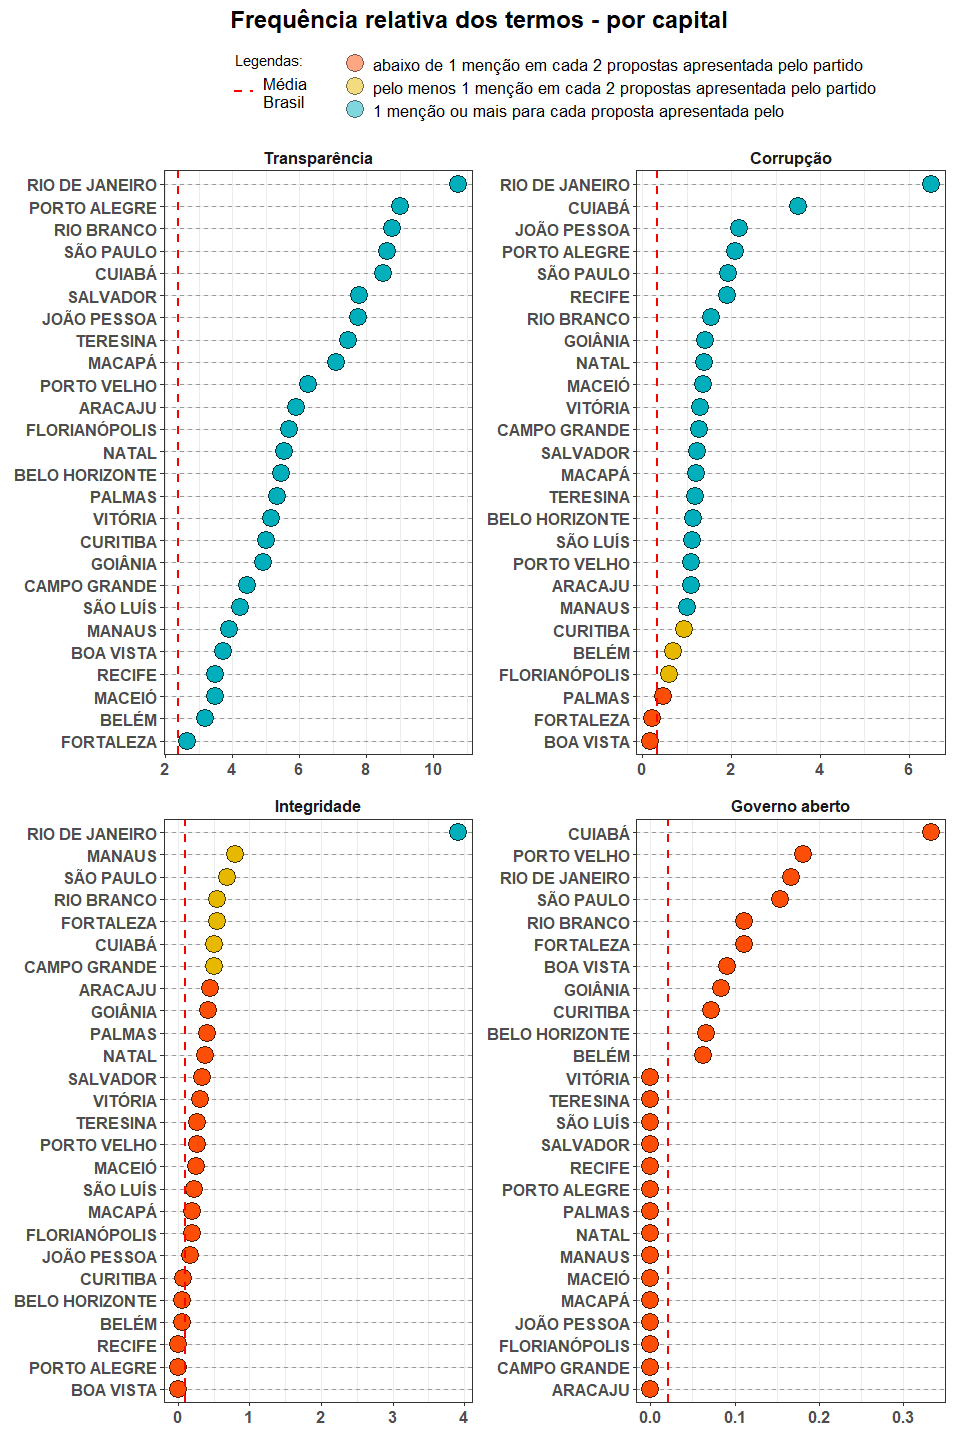
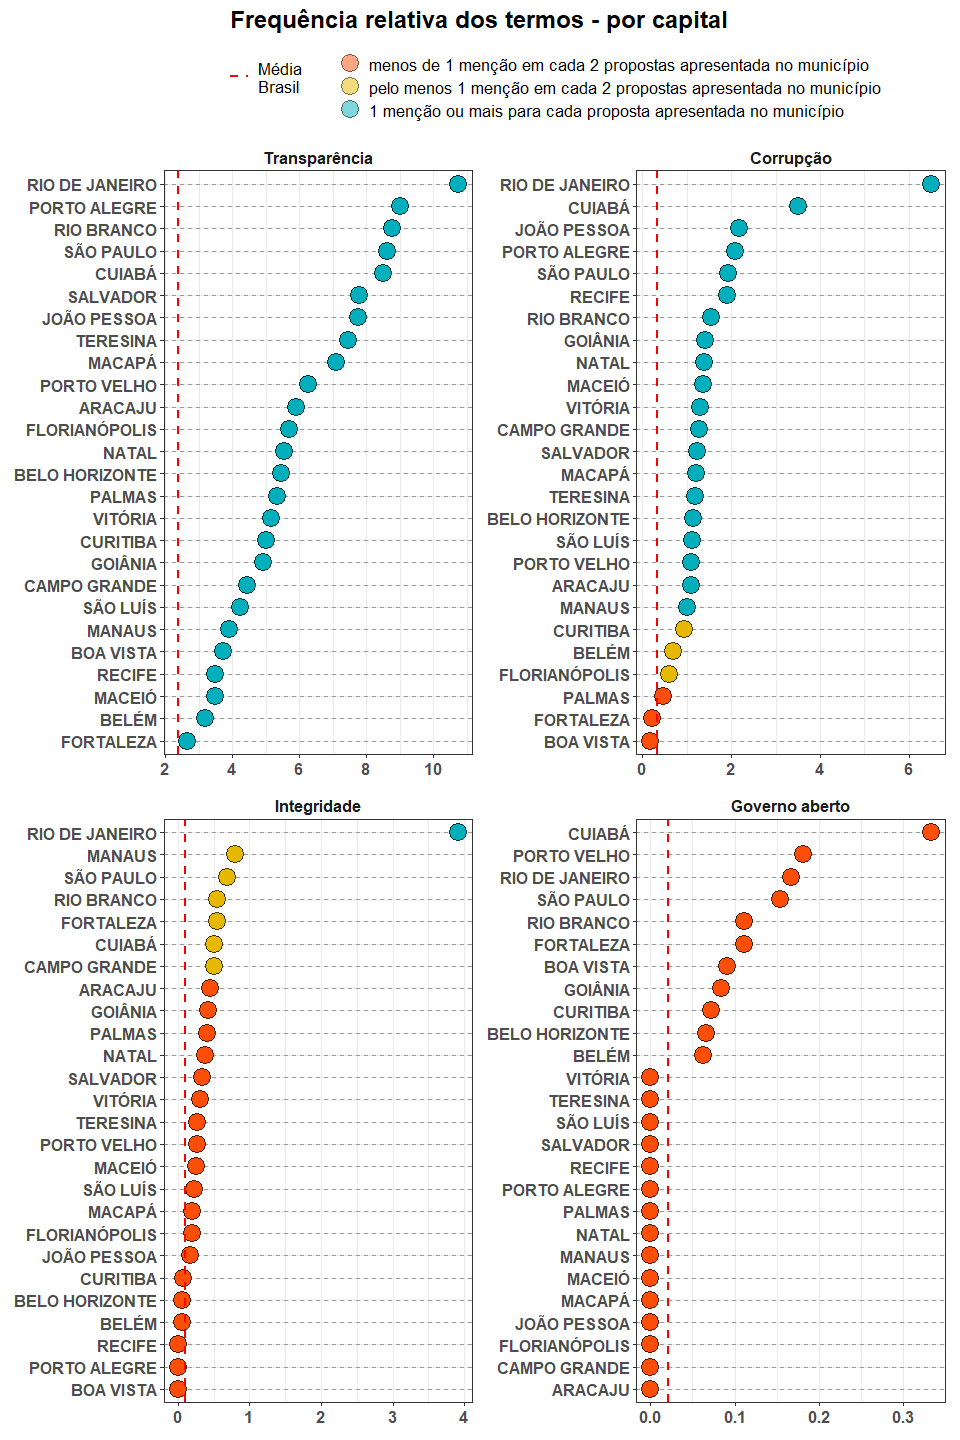
update visualizacoes

Changed region(s): [[0.3438, 0.0312, 0.9062, 0.0938], [0.25, 0.0312, 0.3125, 0.0938]]

diff --git a/report/visualizacoes.md b/report/visualizacoes.md
@@ -113,15 +113,15 @@ pivot_termos <- propostas2 %>%
   ungroup()  %>%
   mutate(
     grau = case_when(
-      freq_termo < 0.5 ~ "abaixo de 1 menção em cada 2 propostas apresentada pelo partido",
+      freq_termo < 0.5 ~ "menos de 1 menção em cada 2 propostas apresentada pelo partido",
       freq_termo < 1.0 ~ "pelo menos 1 menção em cada 2 propostas apresentada pelo partido",
-      freq_termo >= 1.0 ~ "1 menção ou mais para cada proposta apresentada pelo"
+      freq_termo >= 1.0 ~ "1 menção ou mais para cada proposta apresentada pelo partido"
     ) %>%
       factor(
         levels = c(
-          "abaixo de 1 menção em cada 2 propostas apresentada pelo partido",
+          "menos de 1 menção em cada 2 propostas apresentada pelo partido",
           "pelo menos 1 menção em cada 2 propostas apresentada pelo partido",
-          "1 menção ou mais para cada proposta apresentada pelo"
+          "1 menção ou mais para cada proposta apresentada pelo partido"
         )
       )
   )
@@ -363,15 +363,15 @@ pivot_termos <- propostas2 %>%
   ungroup() %>% 
   mutate(
     grau = case_when(
-      freq_termo < 0.5 ~ "abaixo de 1 menção em cada 2 propostas apresentada pelo partido",
-      freq_termo < 1.0 ~ "pelo menos 1 menção em cada 2 propostas apresentada pelo partido",
-      freq_termo >= 1.0 ~ "1 menção ou mais para cada proposta apresentada pelo"
+      freq_termo < 0.5 ~ "menos de 1 menção em cada 2 propostas apresentada no município",
+      freq_termo < 1.0 ~ "pelo menos 1 menção em cada 2 propostas apresentada no município",
+      freq_termo >= 1.0 ~ "1 menção ou mais para cada proposta apresentada no município"
     ) %>%
       factor(
         levels = c(
-          "abaixo de 1 menção em cada 2 propostas apresentada pelo partido",
-          "pelo menos 1 menção em cada 2 propostas apresentada pelo partido",
-          "1 menção ou mais para cada proposta apresentada pelo"
+          "menos de 1 menção em cada 2 propostas apresentada no município",
+          "pelo menos 1 menção em cada 2 propostas apresentada no município",
+          "1 menção ou mais para cada proposta apresentada no município"
         )
       )
   )
@@ -393,15 +393,15 @@ pivot_termos_brasil <- propostas2 %>%
   ungroup() %>% 
   mutate(
     grau = case_when(
-      freq_termo < 0.5 ~ "abaixo de 1 menção em cada 2 propostas apresentada pelo partido",
-      freq_termo < 1.0 ~ "pelo menos 1 menção em cada 2 propostas apresentada pelo partido",
-      freq_termo >= 1.0 ~ "1 menção ou mais para cada proposta apresentada pelo"
+      freq_termo < 0.5 ~ "menos de 1 menção em cada 2 propostas apresentada no município",
+      freq_termo < 1.0 ~ "pelo menos 1 menção em cada 2 propostas apresentada no município",
+      freq_termo >= 1.0 ~ "1 menção ou mais para cada proposta apresentada no município"
     ) %>%
       factor(
         levels = c(
-          "abaixo de 1 menção em cada 2 propostas apresentada pelo partido",
-          "pelo menos 1 menção em cada 2 propostas apresentada pelo partido",
-          "1 menção ou mais para cada proposta apresentada pelo"
+          "menos de 1 menção em cada 2 propostas apresentada no município",
+          "pelo menos 1 menção em cada 2 propostas apresentada no município",
+          "1 menção ou mais para cada proposta apresentada no município"
         )
       )
   )
@@ -425,7 +425,7 @@ plot_freq_termos <- function(token) {
       labs(x = NULL,
            y = NULL,
            fill = NULL,
-           color = "Legendas:") + 
+           color = NULL) + 
       coord_flip() +
       theme_bw() +
       theme(plot.title = element_text(hjust = .5, vjust = .5, size = 18),
